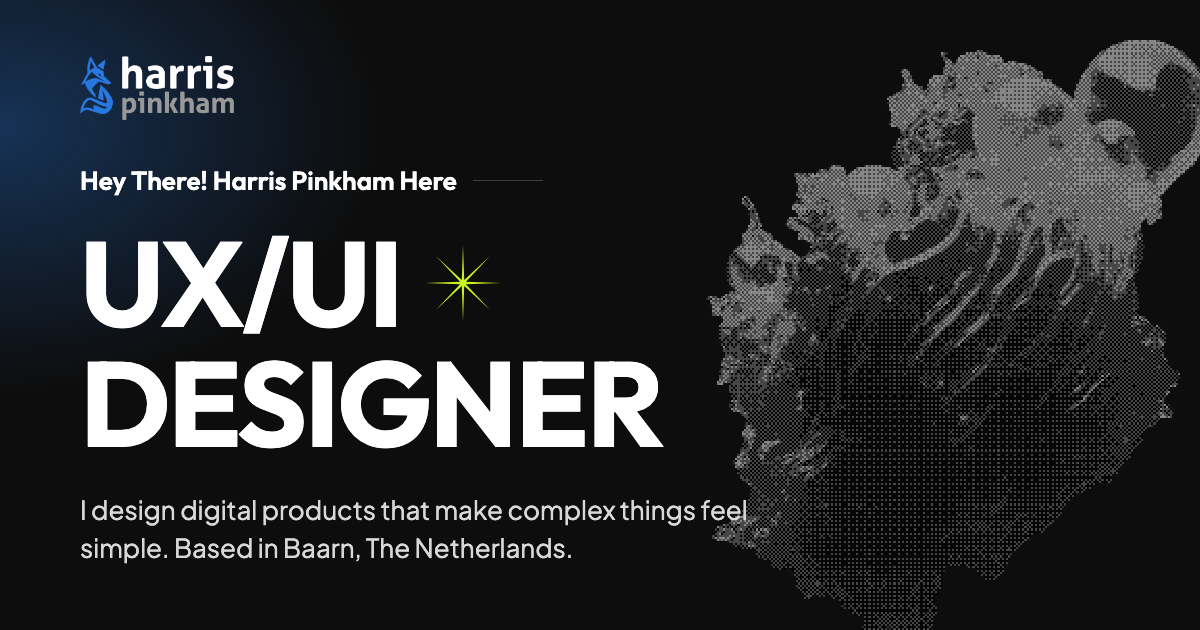
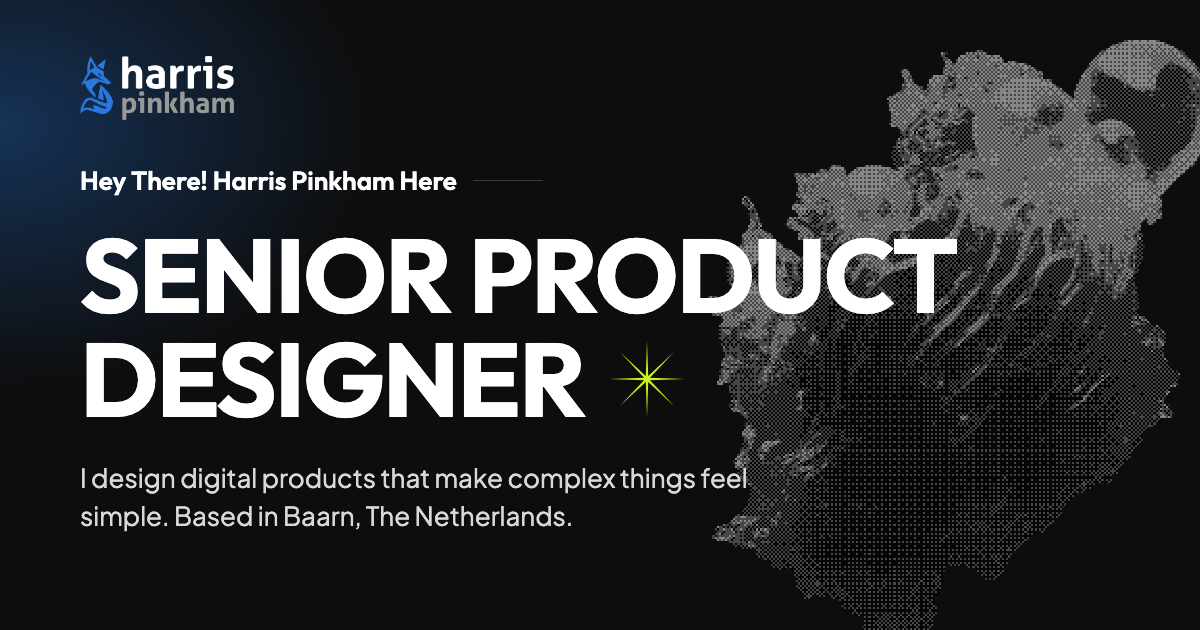
Reposition as Senior Product Designer and fix CXAI claims
The hero, stats, About heading, page titles, footers and link previews
now present Harris as a Senior Product Designer with 8+ years in
digital product, plus a line on the ECBA certification, front-end
background and graduate programme leadership. CXAI is described as a
recruitment case for 5CA without unsupported outcome claims, and the
KYC line no longer implies measured results.

Changed region(s): [[0.0617, 0.3619, 0.8017, 0.9048]]

diff --git a/index.html b/index.html
@@ -3,22 +3,22 @@
 <head>
   <meta charset="utf-8">
   <meta name="viewport" content="width=device-width, initial-scale=1">
-  <title>Harris Pinkham — UX/UI Designer</title>
-  <meta name="description" content="Harris Pinkham is a UX/UI designer based in Baarn, The Netherlands, designing digital products that make complex things feel simple.">
+  <title>Harris Pinkham — Senior Product Designer</title>
+  <meta name="description" content="Harris Pinkham is a senior product designer based in Baarn, The Netherlands, designing digital products that make complex things feel simple.">
   <link rel="canonical" href="https://harris-pinkham.onrender.com/">
   <!-- Link previews (LinkedIn, WhatsApp, Slack, X…) -->
   <meta property="og:type" content="website">
   <meta property="og:site_name" content="Harris Pinkham">
-  <meta property="og:title" content="Harris Pinkham — UX/UI Designer">
-  <meta property="og:description" content="Harris Pinkham is a UX/UI designer based in Baarn, The Netherlands, designing digital products that make complex things feel simple.">
+  <meta property="og:title" content="Harris Pinkham — Senior Product Designer">
+  <meta property="og:description" content="Harris Pinkham is a senior product designer based in Baarn, The Netherlands, designing digital products that make complex things feel simple.">
   <meta property="og:url" content="https://harris-pinkham.onrender.com/">
   <meta property="og:image" content="https://harris-pinkham.onrender.com/assets/og-image.png">
   <meta property="og:image:width" content="1200">
   <meta property="og:image:height" content="630">
-  <meta property="og:image:alt" content="Harris Pinkham, UX/UI Designer, based in Baarn, The Netherlands">
+  <meta property="og:image:alt" content="Harris Pinkham, Senior Product Designer, based in Baarn, The Netherlands">
   <meta name="twitter:card" content="summary_large_image">
-  <meta name="twitter:title" content="Harris Pinkham — UX/UI Designer">
-  <meta name="twitter:description" content="Harris Pinkham is a UX/UI designer based in Baarn, The Netherlands, designing digital products that make complex things feel simple.">
+  <meta name="twitter:title" content="Harris Pinkham — Senior Product Designer">
+  <meta name="twitter:description" content="Harris Pinkham is a senior product designer based in Baarn, The Netherlands, designing digital products that make complex things feel simple.">
   <meta name="twitter:image" content="https://harris-pinkham.onrender.com/assets/og-image.png">
   <link rel="icon" href="assets/favicon.png" type="image/png">
   <link rel="apple-touch-icon" href="assets/favicon.png">
@@ -61,12 +61,15 @@
     <div class="wrap">
       <p class="eyebrow">Hey There! Harris Pinkham Here</p>
       <h1>
-        <span class="line">UX/UI <img class="star" src="assets/star.svg" alt=""></span>
+        <span class="line">SENIOR <img class="star" src="assets/star.svg" alt=""></span>
+        <span class="line">PRODUCT</span>
         <span class="line">DESIGNER</span>
       </h1>
       <p class="lead">I design digital products that make complex things feel simple — from fintech onboarding to government portals. Based in Baarn, The Netherlands.</p>
+      <p class="lead lead-extra">I bring an ECBA business analysis certification, three years as a front-end developer, and 18 months leading BBD’s UX graduate programme.</p>
       <div class="stats">
-        <div><strong>5+</strong><span>Years Experience</span></div>
+        <div><strong>8+</strong><span>Years in digital product</span></div>
+        <div><strong>5+</strong><span>Years product design</span></div>
         <div><strong>4</strong><span>Countries</span></div>
         <div><strong>12+</strong><span>Products shipped</span></div>
       </div>
@@ -128,8 +131,8 @@
       <img class="about-photo" src="assets/about.jpg" alt="Portrait of Harris Pinkham" width="1024" height="1427" loading="lazy">
       <div>
         <p class="eyebrow">About Me</p>
-        <h2 class="section-title">Creating playful, human-centred solutions</h2>
-        <p>I'm a UX/UI designer with <strong>experience across fintech, government, and enterprise software</strong>. I'm at my best when a problem is genuinely hard — whether that's designing a KYC flow that doesn't make users abandon, or building a design system that a team of developers can actually use.</p>
+        <h2 class="section-title">Making complex products feel simple</h2>
+        <p>I'm a senior product designer with <strong>experience across fintech, government, and enterprise software</strong>. I'm at my best when a problem is genuinely hard — whether that's designing a KYC flow that’s quick and clear to complete, or building a design system that a team of developers can actually use.</p>
         <p>Before moving to the Netherlands, I worked on projects in the UK, South Africa, and Lesotho. I care about craft — which means sweating the details in Figma <strong>and</strong> asking the right questions before opening Figma.</p>
       </div>
     </div>
@@ -158,7 +161,7 @@
 <footer>
   <div class="wrap">
     <img src="assets/logo.png" alt="harris pinkham" width="497" height="206">
-    <p>© 2026 Harris Pinkham · UX/UI designer based in The Netherlands</p>
+    <p>© 2026 Harris Pinkham · Senior product designer based in The Netherlands</p>
   </div>
 </footer>
 

diff --git a/projects/cxai.html b/projects/cxai.html
@@ -4,13 +4,13 @@
   <meta charset="utf-8">
   <meta name="viewport" content="width=device-width, initial-scale=1">
   <title>CXAI — Harris Pinkham</title>
-  <meta name="description" content="CXAI: a modular, role-based dashboard for an AI-driven customer support platform. A UX/UI case study by Harris Pinkham.">
+  <meta name="description" content="CXAI: a modular, role-based dashboard for an AI-driven customer support platform. A recruitment case study for 5CA by Harris Pinkham.">
   <link rel="canonical" href="https://harris-pinkham.onrender.com/projects/cxai.html">
   <!-- Link previews (LinkedIn, WhatsApp, Slack, X…) -->
   <meta property="og:type" content="website">
   <meta property="og:site_name" content="Harris Pinkham">
   <meta property="og:title" content="CXAI — Harris Pinkham">
-  <meta property="og:description" content="CXAI: a modular, role-based dashboard for an AI-driven customer support platform. A UX/UI case study by Harris Pinkham.">
+  <meta property="og:description" content="CXAI: a modular, role-based dashboard for an AI-driven customer support platform. A recruitment case study for 5CA by Harris Pinkham.">
   <meta property="og:url" content="https://harris-pinkham.onrender.com/projects/cxai.html">
   <meta property="og:image" content="https://harris-pinkham.onrender.com/projects/cxai/cxai-card-share.png">
   <meta property="og:image:width" content="1440">
@@ -18,7 +18,7 @@
   <meta property="og:image:alt" content="CXAI dashboard with platform overview, recent activity and alerts">
   <meta name="twitter:card" content="summary_large_image">
   <meta name="twitter:title" content="CXAI — Harris Pinkham">
-  <meta name="twitter:description" content="CXAI: a modular, role-based dashboard for an AI-driven customer support platform. A UX/UI case study by Harris Pinkham.">
+  <meta name="twitter:description" content="CXAI: a modular, role-based dashboard for an AI-driven customer support platform. A recruitment case study for 5CA by Harris Pinkham.">
   <meta name="twitter:image" content="https://harris-pinkham.onrender.com/projects/cxai/cxai-card-share.png">
   <link rel="icon" href="../assets/favicon.png" type="image/png">
   <link rel="apple-touch-icon" href="../assets/favicon.png">
@@ -72,12 +72,13 @@
   <section class="wrap project-info">
     <div>
       <h2 class="sub">Overview</h2>
-      <p>I designed an internal support tool for 5CA to streamline agent workflows and reduce response time. Through user research and iterative prototyping, I delivered a solution that improved usability, minimised training time, and aligned with the company’s global remote-first model.</p>
+      <p>CXAI was a recruitment case study for 5CA. The brief was to design a modular, role-based dashboard and landing page for CXAI, an AI-driven SaaS platform for customer support teams.</p>
+      <p>I reviewed comparable platforms, defined three personas, and wireframed and designed a dashboard aimed at streamlining agent workflows and reducing response time.</p>
     </div>
     <dl class="meta">
       <div><dt>Category</dt><dd>AI SaaS</dd></div>
       <div><dt>Platform</dt><dd>Web</dd></div>
-      <div><dt>For</dt><dd>5CA</dd></div>
+      <div><dt>Context</dt><dd>Recruitment case for 5CA</dd></div>
     </dl>
   </section>
 
@@ -91,7 +92,7 @@
       <figure class="wide"><img src="cxai/cxai-screen-4.webp" alt="Wireframes: dashboard layout, navigation and role variants" loading="lazy"></figure>
     </div>
     <h2 class="sub">The solution</h2>
-    <p class="case-text">My design introduced a clean layout, contextual navigation, and smart shortcuts to reduce cognitive load and improve efficiency. By prioritising frequently used actions and making system feedback more intuitive, the interface is fast and easy for agents to use in high-pressure support environments.</p>
+    <p class="case-text">My design introduced a clean layout, contextual navigation, and smart shortcuts to reduce cognitive load and improve efficiency. By prioritising frequently used actions and making system feedback more intuitive, the interface is designed to be fast and easy for agents to use in high-pressure support environments.</p>
 
   </section>
 
@@ -116,7 +117,7 @@
 <footer>
   <div class="wrap">
     <img src="../assets/logo.png" alt="harris pinkham" width="497" height="206">
-    <p>© 2026 Harris Pinkham · UX/UI designer based in The Netherlands</p>
+    <p>© 2026 Harris Pinkham · Senior product designer based in The Netherlands</p>
   </div>
 </footer>
 

diff --git a/ai.html b/ai.html
@@ -4,21 +4,21 @@
   <meta charset="utf-8">
   <meta name="viewport" content="width=device-width, initial-scale=1">
   <title>Made with AI — Harris Pinkham</title>
-  <meta name="description" content="How Harris Pinkham uses AI as a UX/UI designer.">
+  <meta name="description" content="How Harris Pinkham uses AI as a product designer.">
   <link rel="canonical" href="https://harris-pinkham.onrender.com/ai.html">
   <!-- Link previews (LinkedIn, WhatsApp, Slack, X…) -->
   <meta property="og:type" content="website">
   <meta property="og:site_name" content="Harris Pinkham">
   <meta property="og:title" content="Made with AI — Harris Pinkham">
-  <meta property="og:description" content="How Harris Pinkham uses AI as a UX/UI designer.">
+  <meta property="og:description" content="How Harris Pinkham uses AI as a product designer.">
   <meta property="og:url" content="https://harris-pinkham.onrender.com/ai.html">
   <meta property="og:image" content="https://harris-pinkham.onrender.com/assets/og-image.png">
   <meta property="og:image:width" content="1200">
   <meta property="og:image:height" content="630">
-  <meta property="og:image:alt" content="Harris Pinkham, UX/UI Designer, based in Baarn, The Netherlands">
+  <meta property="og:image:alt" content="Harris Pinkham, Senior Product Designer, based in Baarn, The Netherlands">
   <meta name="twitter:card" content="summary_large_image">
   <meta name="twitter:title" content="Made with AI — Harris Pinkham">
-  <meta name="twitter:description" content="How Harris Pinkham uses AI as a UX/UI designer.">
+  <meta name="twitter:description" content="How Harris Pinkham uses AI as a product designer.">
   <meta name="twitter:image" content="https://harris-pinkham.onrender.com/assets/og-image.png">
   <link rel="icon" href="assets/favicon.png" type="image/png">
   <link rel="apple-touch-icon" href="assets/favicon.png">
@@ -138,7 +138,7 @@
 <footer>
   <div class="wrap">
     <img src="assets/logo.png" alt="harris pinkham" width="497" height="206">
-    <p>© 2026 Harris Pinkham · UX/UI designer based in The Netherlands</p>
+    <p>© 2026 Harris Pinkham · Senior product designer based in The Netherlands</p>
   </div>
 </footer>
 

diff --git a/styles.css b/styles.css
@@ -93,7 +93,7 @@ nav a:hover, nav a[aria-current="page"] { color: var(--text); }
   image-rendering: pixelated; pointer-events: none;
 }
 .hero .wrap { position: relative; }
-.hero h1 { font-weight: 700; font-size: clamp(64px, 13vw, 150px); letter-spacing: -.02em; margin-top: 24px; }
+.hero h1 { font-weight: 700; font-size: clamp(64px, 11vw, 124px); letter-spacing: -.02em; margin-top: 24px; }
 .hero h1 .line { display: flex; align-items: center; gap: 24px; }
 .hero h1 .line:last-child { padding-left: clamp(0px, 13vw, 180px); }
 .hero h1 .line:last-child::before {
@@ -103,7 +103,8 @@ nav a:hover, nav a[aria-current="page"] { color: var(--text); }
 }
 .hero h1 .star { width: clamp(40px, 7vw, 90px); }
 .hero .lead { max-width: 560px; margin-top: 40px; font-size: 18px; color: var(--muted); }
-.stats { display: grid; grid-template-columns: repeat(3, 1fr); gap: 24px; max-width: 800px; margin-top: 48px; }
+.hero .lead-extra { margin-top: 16px; }
+.stats { display: grid; grid-template-columns: repeat(4, 1fr); gap: 24px; max-width: 900px; margin-top: 48px; }
 .stats strong { display: block; font-family: "Outfit", sans-serif; font-size: 28px; font-weight: 600; color: var(--accent); }
 .stats span { font-size: 14px; color: var(--muted); }
 .circle-link {
@@ -331,7 +332,7 @@ figure.wide { margin-top: 28px; }
   .hero-figure { width: 80vw; right: -20vw; top: auto; bottom: 0; opacity: .3; }
   .hero h1 .line:last-child { padding-left: 0; }
   .hero h1 .line:last-child::before { display: none; }
-  .stats { grid-template-columns: 1fr; gap: 16px; }
+  .stats { grid-template-columns: 1fr 1fr; gap: 20px 16px; }
   .work, .about { padding: 72px 0; }
   .projects, .projects.three, .cards { grid-template-columns: 1fr; }
   .page-hero { padding: 56px 0 40px; }

diff --git a/process.html b/process.html
@@ -15,7 +15,7 @@
   <meta property="og:image" content="https://harris-pinkham.onrender.com/assets/og-image.png">
   <meta property="og:image:width" content="1200">
   <meta property="og:image:height" content="630">
-  <meta property="og:image:alt" content="Harris Pinkham, UX/UI Designer, based in Baarn, The Netherlands">
+  <meta property="og:image:alt" content="Harris Pinkham, Senior Product Designer, based in Baarn, The Netherlands">
   <meta name="twitter:card" content="summary_large_image">
   <meta name="twitter:title" content="Design Process — Harris Pinkham">
   <meta name="twitter:description" content="How Harris Pinkham approaches UX/UI design: an iterative process of discovery, ideation, design and testing.">
@@ -275,7 +275,7 @@
 <footer>
   <div class="wrap">
     <img src="assets/logo.png" alt="harris pinkham" width="497" height="206">
-    <p>© 2026 Harris Pinkham · UX/UI designer based in The Netherlands</p>
+    <p>© 2026 Harris Pinkham · Senior product designer based in The Netherlands</p>
   </div>
 </footer>
 

diff --git a/projects/fill-up-squad.html b/projects/fill-up-squad.html
@@ -121,7 +121,7 @@
 <footer>
   <div class="wrap">
     <img src="../assets/logo.png" alt="harris pinkham" width="497" height="206">
-    <p>© 2026 Harris Pinkham · UX/UI designer based in The Netherlands</p>
+    <p>© 2026 Harris Pinkham · Senior product designer based in The Netherlands</p>
   </div>
 </footer>
 

diff --git a/projects/huispedia.html b/projects/huispedia.html
@@ -124,7 +124,7 @@
 <footer>
   <div class="wrap">
     <img src="../assets/logo.png" alt="harris pinkham" width="497" height="206">
-    <p>© 2026 Harris Pinkham · UX/UI designer based in The Netherlands</p>
+    <p>© 2026 Harris Pinkham · Senior product designer based in The Netherlands</p>
   </div>
 </footer>
 

diff --git a/projects/national-single-window.html b/projects/national-single-window.html
@@ -126,7 +126,7 @@
 <footer>
   <div class="wrap">
     <img src="../assets/logo.png" alt="harris pinkham" width="497" height="206">
-    <p>© 2026 Harris Pinkham · UX/UI designer based in The Netherlands</p>
+    <p>© 2026 Harris Pinkham · Senior product designer based in The Netherlands</p>
   </div>
 </footer>
 

diff --git a/projects/soldibank.html b/projects/soldibank.html
@@ -121,7 +121,7 @@
 <footer>
   <div class="wrap">
     <img src="../assets/logo.png" alt="harris pinkham" width="497" height="206">
-    <p>© 2026 Harris Pinkham · UX/UI designer based in The Netherlands</p>
+    <p>© 2026 Harris Pinkham · Senior product designer based in The Netherlands</p>
   </div>
 </footer>
 
